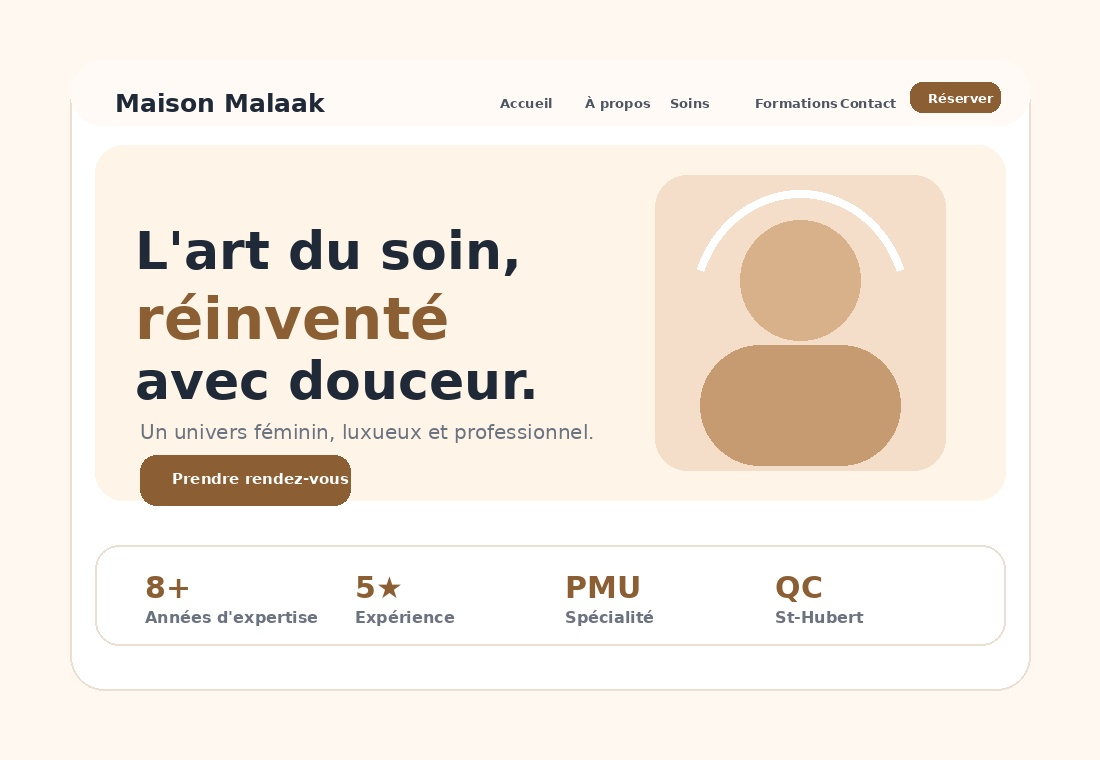
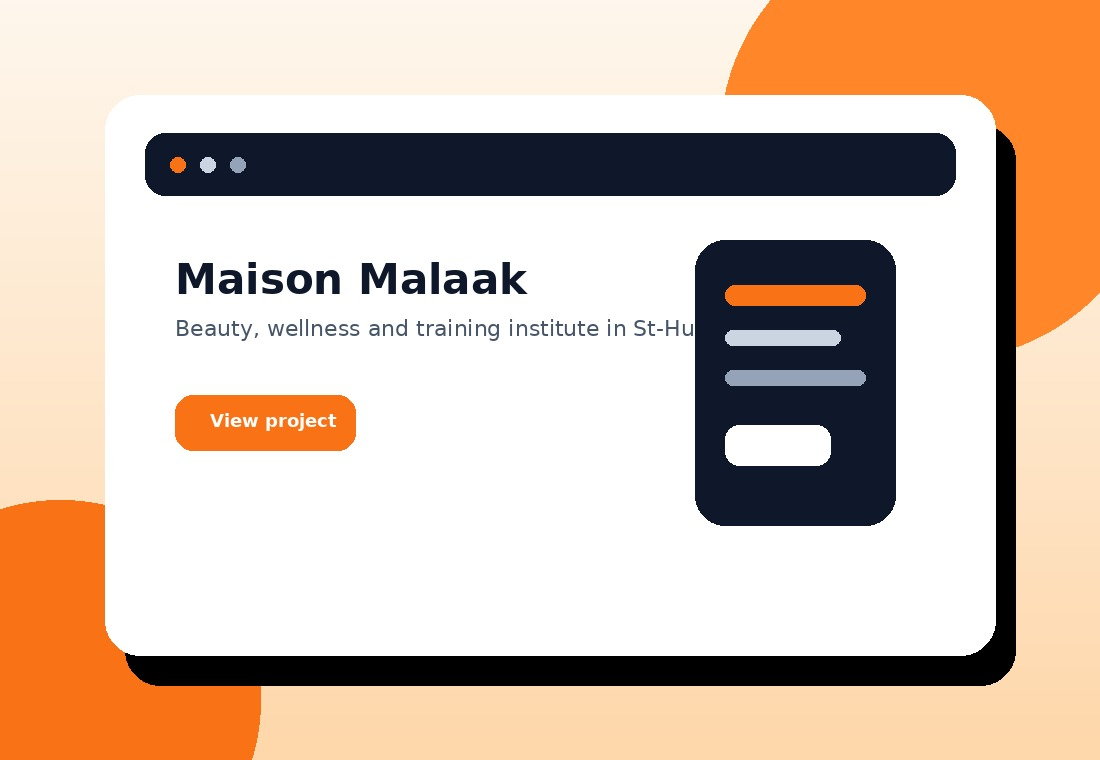
Use real website screenshots in portfolio

diff --git a/css/style.css b/css/style.css
@@ -1278,3 +1278,23 @@ input:focus,select:focus,textarea:focus{border-color:var(--blue);box-shadow:0 0 
     width:100%;
   }
 }
+
+
+/* ===== REAL WEBSITE SCREENSHOT URL FIX ===== */
+.portfolio-image img,
+.final-image img,
+.clean-case-img img,
+.actual-site-screenshot img {
+  width: 100%;
+  height: 100%;
+  object-fit: cover;
+  object-position: top center;
+}
+
+.portfolio-image,
+.final-image,
+.clean-case-img,
+.actual-site-screenshot {
+  background: #f8fafc;
+  overflow: hidden;
+}

diff --git a/portfolio.html b/portfolio.html
@@ -22,8 +22,8 @@
 <main>
 <section class="page-hero"><div class="container"><h1>Portfolio with a premium feel.</h1><p>Real projects and brand directions created for businesses that need trust, clarity, and a stronger digital presence.</p></div></section>
 <section class="section"><div class="container"><div class="featured-work-grid">
-<div class="featured-work-card reveal"><img src="images/portfolio-mortacc-live.jpg" alt="Mortacc website preview"><div class="featured-work-content"><div class="work-tags"><span>SaaS Platform</span><span>Accounting</span><span>Canada</span></div><h3>Mortacc</h3><p>Canadian accounting-firm platform focused on client onboarding, document collection, corporate services and practice management.</p><a class="btn btn-primary" href="https://mortacc.com" target="_blank" rel="noopener noreferrer">View Live Site</a></div></div>
-<div class="featured-work-card reveal"><img src="images/portfolio-maison-malaak-live.jpg" alt="Maison Malaak website preview"><div class="featured-work-content"><div class="work-tags"><span>Beauty</span><span>Luxury</span><span>Booking</span></div><h3>Maison Malaak</h3><p>Luxury beauty and training institute website for services, formations, booking, and a polished client experience.</p><a class="btn btn-primary" href="https://maisonmalaak.com" target="_blank" rel="noopener noreferrer">View Live Site</a></div></div>
+<div class="featured-work-card reveal"><img src="https://s.wordpress.com/mshots/v1/https%3A%2F%2Fmortacc.com?w=1400" alt="Mortacc website preview"><div class="featured-work-content"><div class="work-tags"><span>SaaS Platform</span><span>Accounting</span><span>Canada</span></div><h3>Mortacc</h3><p>Canadian accounting-firm platform focused on client onboarding, document collection, corporate services and practice management.</p><a class="btn btn-primary" href="https://mortacc.com" target="_blank" rel="noopener noreferrer">View Live Site</a></div></div>
+<div class="featured-work-card reveal"><img src="https://s.wordpress.com/mshots/v1/https%3A%2F%2Fmaisonmalaak.com?w=1400" alt="Maison Malaak website preview"><div class="featured-work-content"><div class="work-tags"><span>Beauty</span><span>Luxury</span><span>Booking</span></div><h3>Maison Malaak</h3><p>Luxury beauty and training institute website for services, formations, booking, and a polished client experience.</p><a class="btn btn-primary" href="https://maisonmalaak.com" target="_blank" rel="noopener noreferrer">View Live Site</a></div></div>
 </div></div></section>
 
 <section class="clean-portfolio" id="portfolio">
@@ -37,7 +37,7 @@
     <div class="clean-case-grid">
       <article class="clean-case">
         <div class="clean-case-img">
-          <img src="images/portfolio-mortacc-live.jpg" alt="Mortacc corporate services website mockup">
+          <img src="https://s.wordpress.com/mshots/v1/https%3A%2F%2Fmortacc.com?w=1400" alt="Mortacc corporate services website mockup">
         </div>
         <div class="clean-case-body">
           <div class="clean-tags">
@@ -56,7 +56,7 @@
 
       <article class="clean-case">
         <div class="clean-case-img">
-          <img src="images/portfolio-maison-malaak-live.jpg" alt="Maison Malaak luxury website mockup">
+          <img src="https://s.wordpress.com/mshots/v1/https%3A%2F%2Fmaisonmalaak.com?w=1400" alt="Maison Malaak luxury website mockup">
         </div>
         <div class="clean-case-body">
           <div class="clean-tags">
@@ -88,7 +88,7 @@
     <div class="clean-reel-grid">
       <article class="clean-reel-card">
         <div class="clean-case-img">
-          <img src="images/portfolio-maison-malaak-live.jpg" alt="Maison Malaak preview">
+          <img src="https://s.wordpress.com/mshots/v1/https%3A%2F%2Fmaisonmalaak.com?w=1400" alt="Maison Malaak preview">
         </div>
         <div class="clean-reel-body">
           <span class="clean-tag warm">Beauty Brand</span>
@@ -99,7 +99,7 @@
 
       <article class="clean-reel-card">
         <div class="clean-case-img">
-          <img src="images/portfolio-mortacc-live.jpg" alt="Mortacc preview">
+          <img src="https://s.wordpress.com/mshots/v1/https%3A%2F%2Fmortacc.com?w=1400" alt="Mortacc preview">
         </div>
         <div class="clean-reel-body">
           <span class="clean-tag">Business Platform</span>

diff --git a/fr/index.html b/fr/index.html
@@ -219,7 +219,7 @@
     <div class="clean-case-grid">
       <article class="clean-case">
         <div class="clean-case-img">
-          <img src="images/portfolio-mortacc-live.jpg" alt="Mortacc corporate services website mockup">
+          <img src="https://s.wordpress.com/mshots/v1/https%3A%2F%2Fmortacc.com?w=1400" alt="Mortacc corporate services website mockup">
         </div>
         <div class="clean-case-body">
           <div class="clean-tags">
@@ -238,7 +238,7 @@
 
       <article class="clean-case">
         <div class="clean-case-img">
-          <img src="images/portfolio-maison-malaak-live.jpg" alt="Maison Malaak luxury website mockup">
+          <img src="https://s.wordpress.com/mshots/v1/https%3A%2F%2Fmaisonmalaak.com?w=1400" alt="Maison Malaak luxury website mockup">
         </div>
         <div class="clean-case-body">
           <div class="clean-tags">
@@ -270,7 +270,7 @@
     <div class="clean-reel-grid">
       <article class="clean-reel-card">
         <div class="clean-case-img">
-          <img src="images/portfolio-maison-malaak-live.jpg" alt="Maison Malaak preview">
+          <img src="https://s.wordpress.com/mshots/v1/https%3A%2F%2Fmaisonmalaak.com?w=1400" alt="Maison Malaak preview">
         </div>
         <div class="clean-reel-body">
           <span class="clean-tag warm">Beauty Brand</span>
@@ -281,7 +281,7 @@
 
       <article class="clean-reel-card">
         <div class="clean-case-img">
-          <img src="images/portfolio-mortacc-live.jpg" alt="Mortacc preview">
+          <img src="https://s.wordpress.com/mshots/v1/https%3A%2F%2Fmortacc.com?w=1400" alt="Mortacc preview">
         </div>
         <div class="clean-reel-body">
           <span class="clean-tag">Business Platform</span>

diff --git a/fr/portfolio.html b/fr/portfolio.html
@@ -37,7 +37,7 @@
     <div class="clean-case-grid">
       <article class="clean-case">
         <div class="clean-case-img">
-          <img src="images/portfolio-mortacc-live.jpg" alt="Mortacc corporate services website mockup">
+          <img src="https://s.wordpress.com/mshots/v1/https%3A%2F%2Fmortacc.com?w=1400" alt="Mortacc corporate services website mockup">
         </div>
         <div class="clean-case-body">
           <div class="clean-tags">
@@ -56,7 +56,7 @@
 
       <article class="clean-case">
         <div class="clean-case-img">
-          <img src="images/portfolio-maison-malaak-live.jpg" alt="Maison Malaak luxury website mockup">
+          <img src="https://s.wordpress.com/mshots/v1/https%3A%2F%2Fmaisonmalaak.com?w=1400" alt="Maison Malaak luxury website mockup">
         </div>
         <div class="clean-case-body">
           <div class="clean-tags">
@@ -88,7 +88,7 @@
     <div class="clean-reel-grid">
       <article class="clean-reel-card">
         <div class="clean-case-img">
-          <img src="images/portfolio-maison-malaak-live.jpg" alt="Maison Malaak preview">
+          <img src="https://s.wordpress.com/mshots/v1/https%3A%2F%2Fmaisonmalaak.com?w=1400" alt="Maison Malaak preview">
         </div>
         <div class="clean-reel-body">
           <span class="clean-tag warm">Beauty Brand</span>
@@ -99,7 +99,7 @@
 
       <article class="clean-reel-card">
         <div class="clean-case-img">
-          <img src="images/portfolio-mortacc-live.jpg" alt="Mortacc preview">
+          <img src="https://s.wordpress.com/mshots/v1/https%3A%2F%2Fmortacc.com?w=1400" alt="Mortacc preview">
         </div>
         <div class="clean-reel-body">
           <span class="clean-tag">Business Platform</span>

diff --git a/index.html b/index.html
@@ -140,7 +140,7 @@
       </div>
       <div class="featured-work-grid">
         <div class="featured-work-card reveal">
-          <img src="images/portfolio-mortacc-live.jpg" alt="Mortacc live website screenshot">
+          <img src="https://s.wordpress.com/mshots/v1/https%3A%2F%2Fmortacc.com?w=1400" alt="Mortacc live website screenshot">
           <div class="featured-work-content">
             <div class="work-tags"><span>SaaS Platform</span><span>Accounting</span><span>Canada</span></div>
             <h3>Mortacc</h3>
@@ -149,7 +149,7 @@
           </div>
         </div>
         <div class="featured-work-card reveal">
-          <img src="images/portfolio-maison-malaak-live.jpg" alt="Maison Malaak live website screenshot">
+          <img src="https://s.wordpress.com/mshots/v1/https%3A%2F%2Fmaisonmalaak.com?w=1400" alt="Maison Malaak live website screenshot">
           <div class="featured-work-content">
             <div class="work-tags"><span>Beauty</span><span>Luxury</span><span>St-Hubert</span></div>
             <h3>Maison Malaak</h3>
@@ -169,8 +169,8 @@
         <p>Selected projects and concepts showing the style of work FMBytex creates.</p>
       </div>
       <div class="portfolio-grid">
-        <a class="work-card reveal" href="portfolio.html"><img src="images/portfolio-maison-malaak-live.jpg" alt="Maison Malaak live website screenshot"><div class="work-body"><span class="badge">Beauty Brand</span><h3>Maison Malaak</h3><p>Elegant digital presence for a beauty and wellness business.</p></div></a>
-        <a class="work-card reveal" href="portfolio.html"><img src="images/portfolio-mortacc-live.jpg" alt="Mortacc live website screenshot"><div class="work-body"><span class="badge">Business Platform</span><h3>Mortacc</h3><p>Professional brand direction for business and compliance services.</p></div></a>
+        <a class="work-card reveal" href="portfolio.html"><img src="https://s.wordpress.com/mshots/v1/https%3A%2F%2Fmaisonmalaak.com?w=1400" alt="Maison Malaak live website screenshot"><div class="work-body"><span class="badge">Beauty Brand</span><h3>Maison Malak</h3><p>Elegant digital presence for a beauty and wellness business.</p></div></a>
+        <a class="work-card reveal" href="portfolio.html"><img src="https://s.wordpress.com/mshots/v1/https%3A%2F%2Fmortacc.com?w=1400" alt="Mortacc live website screenshot"><div class="work-body"><span class="badge">Business Platform</span><h3>Mortacc</h3><p>Professional brand direction for business and compliance services.</p></div></a>
         <a class="work-card reveal" href="portfolio.html"><img src="images/digital-strategy.svg" alt="Digital strategy preview"><div class="work-body"><span class="badge">Strategy</span><h3>Digital Presence</h3><p>Web design, branding, and online visibility built to attract clients.</p></div></a>
       </div>
     </div>